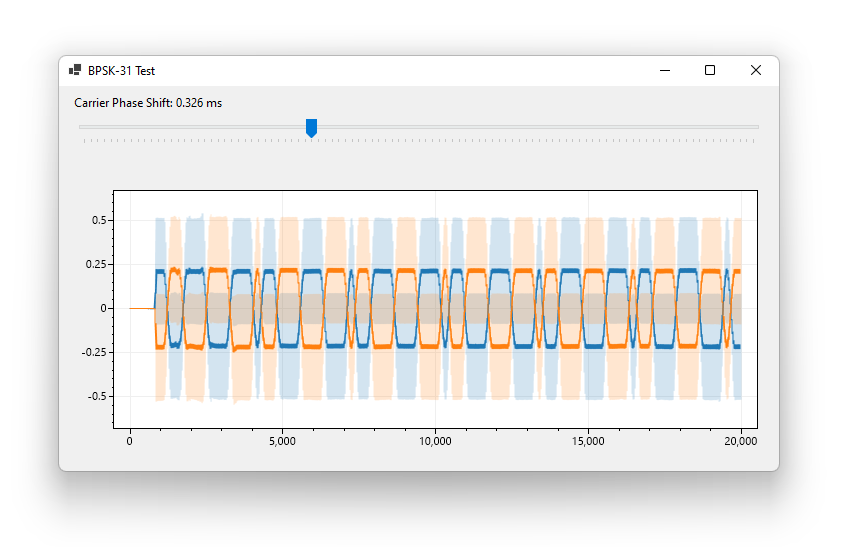
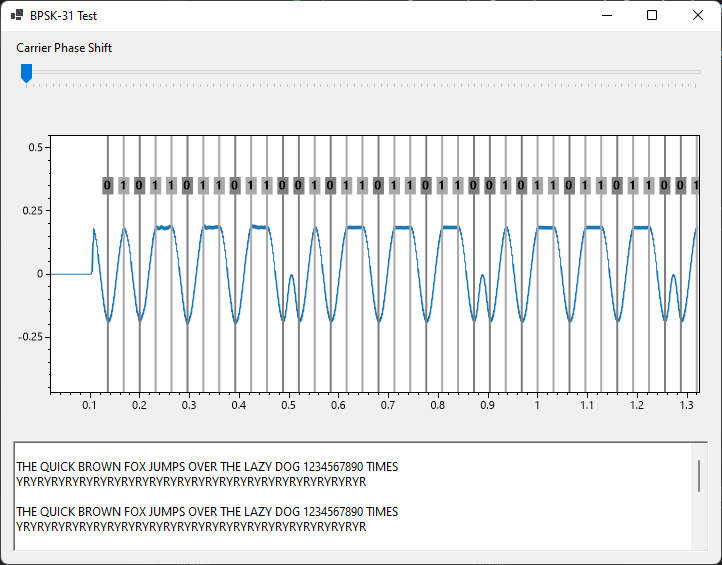
functional PSK-31 decoder

diff --git a/psktest/Varicode.cs b/psktest/Varicode.cs
@@ -1,0 +1,199 @@
+using NAudio.Dsp;
+using System;
+using System.Collections.Generic;
+using System.Linq;
+using System.Text;
+using System.Threading.Tasks;
+
+namespace psktest;
+
+/* Varicode Encoding/Decoding Routines 
+ *   Copyright 2022 Scott W Harden, AJ4VD
+ *   Released under the MIT license
+ *   https://opensource.org/licenses/MIT
+ *   
+ * Resources
+ *   http://www.arrl.org/psk31-spec
+ *   http://math0.wvstateu.edu/~baker/cs240/info/varicode.html
+ *   http://aintel.bi.ehu.es/psk31theory.html
+ *   https://n7yg.net/psk-stuff/psk31-varicode
+ */
+
+public static class Varicode
+{
+    private static readonly Dictionary<string, string> CodesBySymbol = new()
+    {
+        {"NUL", "1010101011"},
+        {"SOH", "1011011011"},
+        {"STX", "1011101101"},
+        { "ETX", "1101110111"},
+        { "EOT", "1011101011"},
+        { "ENQ", "1101011111"},
+        { "ACK", "1011101111"},
+        { "BEL", "1011111101"},
+        { "BS", "1011111111"},
+        { "HT", "11101111"},
+        { "LF", "11101"},
+        { "VT", "1101101111"},
+        { "FF", "1011011101"},
+        { "CR", "11111"},
+        { "SO", "1101110101"},
+        { "SI", "1110101011"},
+        { "DLE", "1011110111"},
+        { "DC1", "1011110101"},
+        { "DC2", "1110101101"},
+        { "DC3", "1110101111"},
+        { "DC4", "1101011011"},
+        { "NAK", "1101101011"},
+        { "SYN", "1101101101"},
+        { "ETB", "1101010111"},
+        { "CAN", "1101111011"},
+        { "EM", "1101111101"},
+        { "SUB", "1110110111"},
+        { "ESC", "1101010101"},
+        { "FS", "1101011101"},
+        { "GS", "1110111011"},
+        { "RS", "1011111011"},
+        { "US", "1101111111"},
+        { "SP", "1"},
+        { "!", "111111111"},
+        { "\"", "101011111"},
+        { "#", "111110101"},
+        { "$", "111011011"},
+        { "%", "1011010101"},
+        { "&", "1010111011"},
+        { "'", "101111111"},
+        { "(", "11111011"},
+        { ")", "11110111"},
+        { "*", "101101111"},
+        { "+", "111011111"},
+        { ",", "1110101"},
+        { "-", "110101"},
+        { ".", "1010111"},
+        { "/", "110101111"},
+        { "0", "10110111"},
+        { "1", "10111101"},
+        { "2", "11101101"},
+        { "3", "11111111"},
+        { "4", "101110111"},
+        { "5", "101011011"},
+        { "6", "101101011"},
+        { "7", "110101101"},
+        { "8", "110101011"},
+        { "9", "110110111"},
+        { ":", "11110101"},
+        { ";", "110111101"},
+        { "<", "111101101"},
+        { "=", "1010101"},
+        { ">", "111010111"},
+        { "?", "1010101111"},
+        { "@", "1010111101"},
+        { "A", "1111101"},
+        { "B", "11101011"},
+        { "C", "10101101"},
+        { "D", "10110101"},
+        { "E", "1110111"},
+        { "F", "11011011"},
+        { "G", "11111101"},
+        { "H", "101010101"},
+        { "I", "1111111"},
+        { "J", "111111101"},
+        { "K", "101111101"},
+        { "L", "11010111"},
+        { "M", "10111011"},
+        { "N", "11011101"},
+        { "O", "10101011"},
+        { "P", "11010101"},
+        { "Q", "111011101"},
+        { "R", "10101111"},
+        { "S", "1101111"},
+        { "T", "1101101"},
+        { "U", "101010111"},
+        { "V", "110110101"},
+        { "W", "101011101"},
+        { "X", "101110101"},
+        { "Y", "101111011"},
+        { "Z", "1010101101"},
+        { "[", "111110111"},
+        { "\\", "111101111"},
+        { "]", "111111011"},
+        { "^", "1010111111"},
+        { "_", "101101101"},
+        { "`", "1011011111"},
+        { "a", "1011"},
+        { "b", "1011111"},
+        { "c", "101111"},
+        { "d", "101101"},
+        { "e", "11"},
+        { "f", "111101"},
+        { "g", "1011011"},
+        { "h", "101011"},
+        { "i", "1101"},
+        { "j", "111101011"},
+        { "k", "10111111"},
+        { "l", "11011"},
+        { "m", "111011"},
+        { "n", "1111"},
+        { "o", "111"},
+        { "p", "111111"},
+        { "q", "110111111"},
+        { "r", "10101"},
+        { "s", "10111"},
+        { "t", "101"},
+        { "u", "110111"},
+        { "v", "1111011"},
+        { "w", "1101011"},
+        { "x", "11011111"},
+        { "y", "1011101"},
+        { "z", "111010101"},
+        { "{", "1010110111"},
+        { "|", "110111011"},
+        { "},", "1010110101"},
+        { "~", "1011010111"},
+        { "DEL", "1110110101" }
+    };
+
+    public static Dictionary<string, string> GetCodesBySymbol() => CodesBySymbol;
+
+    public static string GetCode(string symbol)
+    {
+        CodesBySymbol.TryGetValue(symbol, out string? code);
+        return code ?? "ERROR";
+    }
+
+    public static string GetSymbol(string code)
+    {
+        if (code.Replace("1", "").Replace("0", "").Length > 0)
+            throw new InvalidOperationException("code must only contain 1 and 0");
+
+        foreach (var p in CodesBySymbol)
+        {
+            if (p.Value == code)
+                return p.Key;
+        }
+
+        return "ERROR";
+    }
+
+    public static string GetSymbols(string codeblock)
+    {
+        StringBuilder sb = new();
+        foreach (string symbolCode in codeblock.Split("00"))
+        {
+            string symbol = GetSymbol(symbolCode);
+            if (symbol == "ERROR")
+                continue;
+            if (symbol == "SOH")
+                continue;
+            if (symbol == "CR")
+                symbol = "\r";
+            if (symbol == "LF")
+                symbol = "\n";
+            if (symbol == "SP")
+                symbol = " ";
+            sb.Append(symbol);
+        }
+
+        return sb.ToString();
+    }
+}

diff --git a/psktest/Form1.Designer.cs b/psktest/Form1.Designer.cs
@@ -31,6 +31,7 @@ partial class Form1
             this.formsPlot1 = new ScottPlot.FormsPlot();
             this.trackBar1 = new System.Windows.Forms.TrackBar();
             this.label1 = new System.Windows.Forms.Label();
+            this.richTextBox1 = new System.Windows.Forms.RichTextBox();
             ((System.ComponentModel.ISupportInitialize)(this.trackBar1)).BeginInit();
             this.SuspendLayout();
             // 
@@ -42,7 +43,7 @@ partial class Form1
             this.formsPlot1.Location = new System.Drawing.Point(0, 82);
             this.formsPlot1.Margin = new System.Windows.Forms.Padding(4, 3, 4, 3);
             this.formsPlot1.Name = "formsPlot1";
-            this.formsPlot1.Size = new System.Drawing.Size(720, 303);
+            this.formsPlot1.Size = new System.Drawing.Size(720, 322);
             this.formsPlot1.TabIndex = 0;
             // 
             // trackBar1
@@ -65,11 +66,22 @@ partial class Form1
             this.label1.TabIndex = 3;
             this.label1.Text = "Carrier Phase Shift";
             // 
+            // richTextBox1
+            // 
+            this.richTextBox1.Anchor = ((System.Windows.Forms.AnchorStyles)(((System.Windows.Forms.AnchorStyles.Bottom | System.Windows.Forms.AnchorStyles.Left) 
+            | System.Windows.Forms.AnchorStyles.Right)));
+            this.richTextBox1.Location = new System.Drawing.Point(12, 410);
+            this.richTextBox1.Name = "richTextBox1";
+            this.richTextBox1.Size = new System.Drawing.Size(696, 111);
+            this.richTextBox1.TabIndex = 4;
+            this.richTextBox1.Text = "";
+            // 
             // Form1
             // 
             this.AutoScaleDimensions = new System.Drawing.SizeF(7F, 15F);
             this.AutoScaleMode = System.Windows.Forms.AutoScaleMode.Font;
-            this.ClientSize = new System.Drawing.Size(720, 385);
+            this.ClientSize = new System.Drawing.Size(720, 533);
+            this.Controls.Add(this.richTextBox1);
             this.Controls.Add(this.label1);
             this.Controls.Add(this.trackBar1);
             this.Controls.Add(this.formsPlot1);
@@ -87,4 +99,5 @@ partial class Form1
     private ScottPlot.FormsPlot formsPlot1;
     private TrackBar trackBar1;
     private Label label1;
+    private RichTextBox richTextBox1;
 }

diff --git a/psktest/Form1.cs b/psktest/Form1.cs
@@ -2,6 +2,7 @@ using FftSharp;
 using System.Diagnostics;
 using System.Drawing;
 using System.IO;
+using System.Text;
 
 namespace psktest;
 
@@ -18,6 +19,7 @@ public partial class Form1 : Form
         //AudioSource = AudioSource.Take(20_000).ToArray();
 
         UpdatePlot();
+        formsPlot1.Plot.SetAxisLimits(0, 1.5, -.5, .5);
     }
 
     private void trackBar1_Scroll(object sender, EventArgs e) => UpdatePlot();
@@ -43,23 +45,25 @@ public partial class Form1 : Form
             smoothDiff[i] = diff.Skip(i).Take(lpfPoints).Sum() / lpfPoints;
         }
 
-
         var originalLimits = formsPlot1.Plot.GetAxisLimits();
         bool preserveOriginalLimits = formsPlot1.Plot.GetPlottables().Any();
         formsPlot1.Plot.Clear();
         formsPlot1.Plot.AddSignal(smoothDiff, SampleRate);
 
+        StringBuilder sbRaw = new();
         double firstMeasurement = .1355;
-        int maxCharsToDecode = 1_000;
-        for (int i = 0; i < maxCharsToDecode; i++)
+        int charsDecoded = 0;
+        while (true)
         {
-            double sampleTime = firstMeasurement + i * SymbolTime;
+            double sampleTime = firstMeasurement + charsDecoded * SymbolTime;
             int sampleIndex = (int)(sampleTime * SampleRate);
             if (sampleIndex >= smoothDiff.Length)
                 break;
+            charsDecoded += 1;
 
             bool isHigh = smoothDiff[sampleIndex] > 0;
             Color color = isHigh ? Color.DarkGray : Color.Gray;
+            sbRaw.Append(isHigh ? "1" : "0");
 
             formsPlot1.Plot.AddVerticalLine(sampleTime, color, 2);
             var t = formsPlot1.Plot.AddText(isHigh ? "1" : "0", sampleTime, .35);
@@ -77,6 +81,8 @@ public partial class Form1 : Form
         formsPlot1.Plot.Grid(false);
 
         formsPlot1.Refresh();
+        //richTextBox1.Text = sbRaw.ToString();
+        richTextBox1.Text = Varicode.GetSymbols(sbRaw.ToString());
     }
 
     public void PlotFft(double[] values)

diff --git a/README.md b/README.md
@@ -1,6 +1,8 @@
 # psk-experiments
 Phase-shift keying (PSK) notes and resources
 
-![](psktest/screenshot.png)
+[DigiPan](https://www.apkfollow.com/articles/2020/06/digipan.net.html) Decoding PSK-31 | This C# Application Decoding PSK-31
+---|---
+![](psktest/digipan.png)|![](psktest/screenshot.png)
 
 ![](psktest/screenshot.gif)
